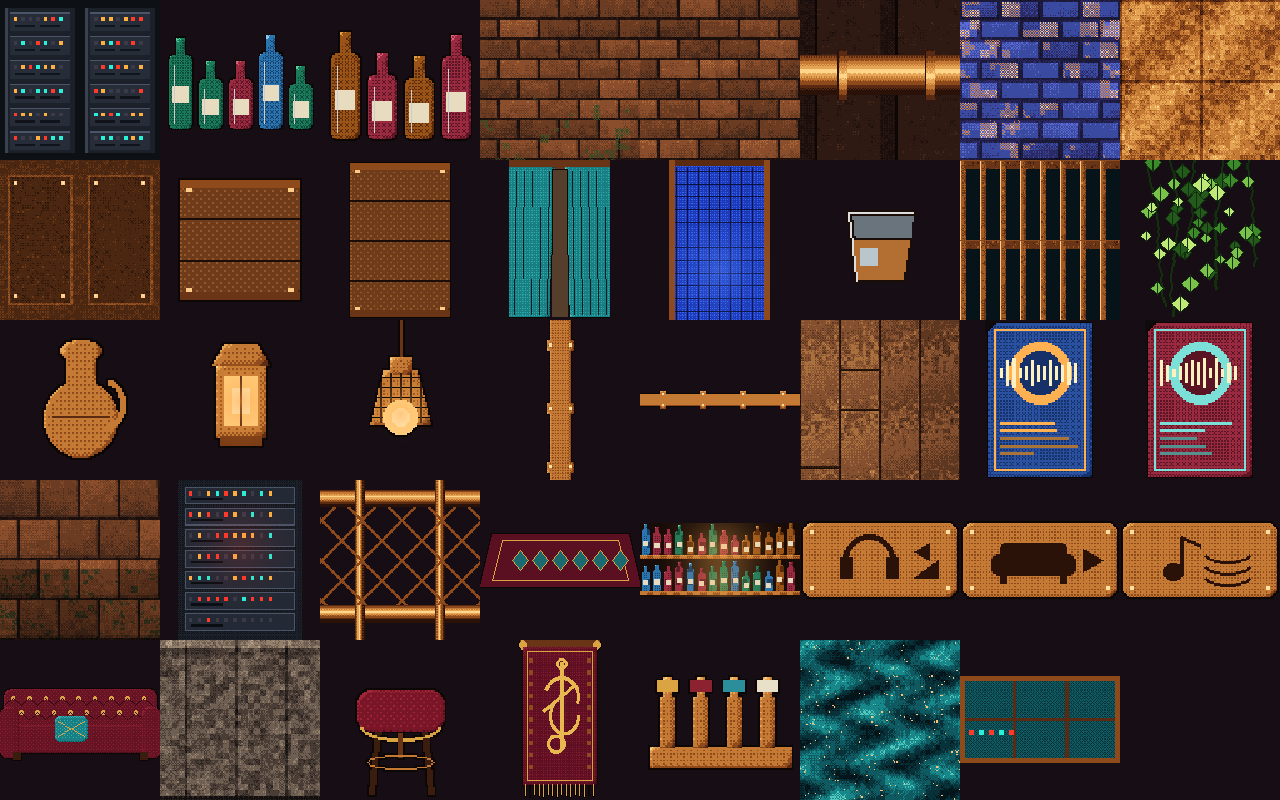
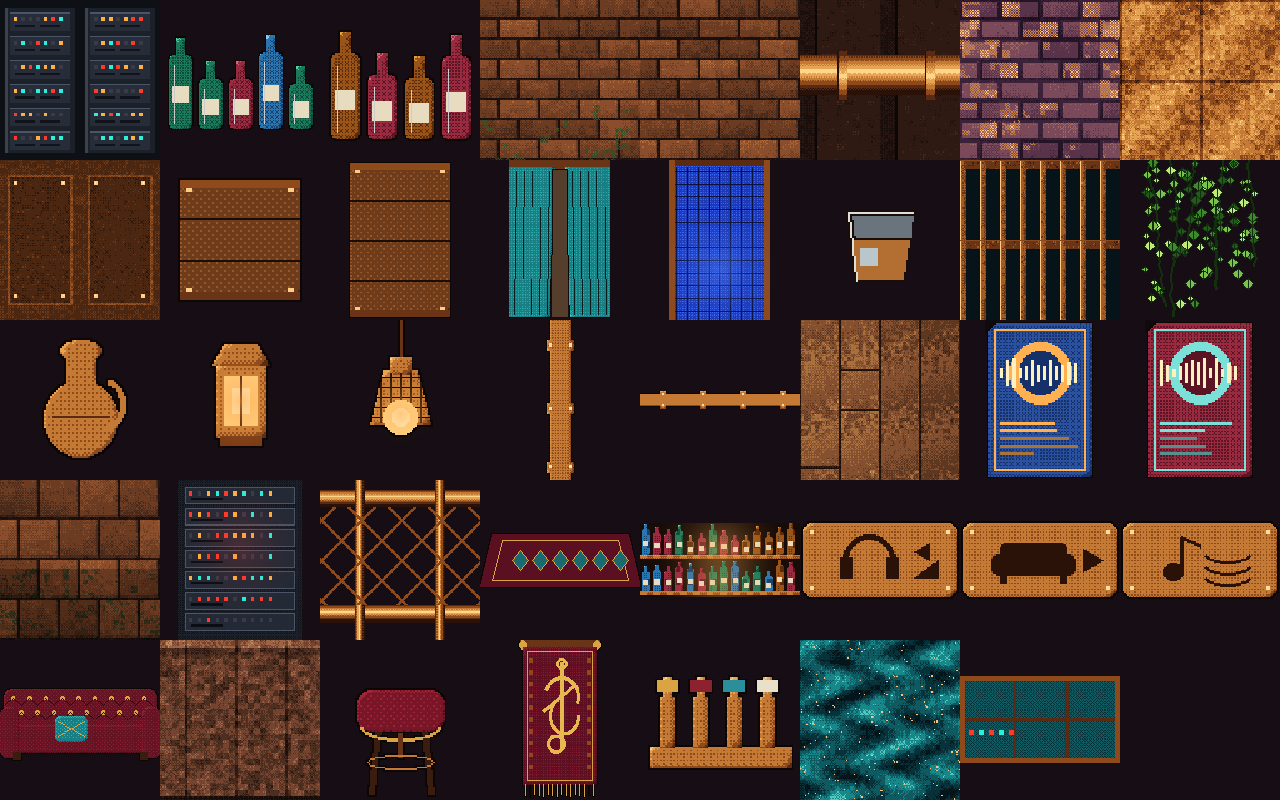
WIP: Copper Bar shots (one contact sheet, walk strips), scene doc, LAUNCH entry, art tweaks

Changed region(s): [[0.75, 0.0, 1.0, 0.4062], [0.125, 0.7812, 0.25, 1.0]]

diff --git a/tools/doom/shoot_bar.py b/tools/doom/shoot_bar.py
@@ -1,0 +1,114 @@
+#!/usr/bin/env python3
+"""Shots of the Copper Bar (docs/doom/scenes/bar.md), at 16:9 (1280x720) and 20:9 (1600x720), as ONE contact sheet under 1 MB (no per-frame JPEGs are kept).
+
+    python3 tools/doom/shoot_bar.py [out_dir]          default docs/shots/doom/bar   -> contact_bar.jpg (and walk_stay.jpg, walk_ahead.jpg with --walk)
+
+Every frame is a real run scene shot (HUD and pads on, RW_STORY_CAM stands the camera): the reference viewpoint beside the painting, the stay loop's three reveal holds and the
+rail camera at song times, and each of the three route walks (up to the booth, left to the Floor, right to the Chill-out) in four frames from tools/doom/walk_poses.gd's poses.
+The frames go to a temporary folder; only the sheet is written to out_dir.
+"""
+import os
+import re
+import shutil
+import subprocess
+import sys
+import tempfile
+
+from PIL import Image, ImageDraw
+
+HERE = os.path.dirname(os.path.abspath(__file__))
+sys.path.insert(0, HERE)
+import shoot_scene as ss  # noqa: E402
+
+ROOT = ss.ROOT
+SCENE = "doom_bar"
+PAINTING = os.path.join(ROOT, "art", "reference", "doom_worlds", "Copper Basement Bar, Three Hidden Routes-3.png")
+RES = {"16x9": "1280x720", "20x9": "1600x720"}
+RATE = 0.5
+
+
+def shoot(tmp, name, asp, cam, secs):
+    """One shot; returns the PNG path or None."""
+    steps = "%d:shot:%s" % (int((secs + 2.0) / RATE) + 2, name)
+    env = {"XDG_DATA_HOME": tmp + "/data", "RW_DOOM_WORLDS": "1", "RW_RUN_VIRTUAL": "1", "RW_STORY_RATE": str(RATE), "RW_RUN_START": SCENE, "RW_RUN_BOT": "perfect"}
+    if cam != "-":
+        env["RW_STORY_CAM"] = cam
+    text = ss.godot(["--path", ROOT, "--resolution", RES[asp], "-s", "tools/shoot.gd", "--", "res://src/run/run_play.tscn", tmp, steps], env, timeout=300)
+    bad = [ln for ln in text.splitlines() if ("SCRIPT ERROR" in ln or "ERROR" in ln) and not any(k in ln for k in ("RID allocations", "leaked", "still in use", "ObjectDB", "WASAPI", "ERR_CANT_OPEN"))]
+    if bad:
+        print("  errors in", name, asp, bad[:3])
+    f = os.path.join(tmp, name + ".png")
+    return f if os.path.exists(f) else None
+
+
+def poses(route):
+    text = ss.godot(["--headless", "--audio-driver", "Dummy", "--path", ROOT, "-s", "tools/doom/walk_poses.gd", "--", SCENE, route, "res://content/run/doom/run.json", SCENE])
+    if "SCRIPT ERROR" in text:
+        print("SCRIPT ERROR in walk_poses.gd\n" + text)
+        sys.exit(1)
+    out = []
+    for ln in text.splitlines():
+        m = ss.POSE.match(ln) if ln.startswith("WALK") else None
+        if m:
+            out.append(m.groups())
+    return out
+
+
+def main(out):
+    os.makedirs(out, exist_ok=True)
+    tmp = tempfile.mkdtemp(prefix="rw_bar_")
+    tmp_u = tmp.replace("\\", "/")
+    cells = {}  # (row, col) -> (image, label)
+    try:
+        painting = Image.open(PAINTING).convert("RGB")
+        rows = []  # each row: list of (asp, name, cam, secs, label) or "painting"
+        rows.append([("painting",), ("16x9", "ref", "wb_ref", 3, "reference viewpoint 16:9"), ("20x9", "ref", "wb_ref", 3, "reference viewpoint 20:9")])
+        holds = [("bridge", "wb_bridge"), ("counter", "wb_counter"), ("way", "wb_way")]
+        for asp in ("16x9", "20x9"):
+            rows.append([(asp, "hold_" + n, c, 3, "stay hold %s %s" % (n, asp.replace("x", ":"))) for n, c in holds] + [(asp, "stumble", "wb_ref_back", 3, "stumble %s" % asp.replace("x", ":"))])
+        rows.append([("16x9", "rail_%d" % k, "-", t, "rail camera t=%ds 16:9" % t) for k, t in enumerate((14, 28, 42, 56))])
+        for route, label in (("ahead", "up to the booth"), ("left", "left to the Floor"), ("right", "right to the Chill-out")):
+            ps = poses(route)
+            pick = [ps[i] for i in (2, 5, 8, 11)] if len(ps) >= 12 else ps
+            for asp in ("16x9", "20x9"):
+                rows.append([(asp, "walk_%s_%d" % (route, k), "@" + p[2], 3, "%s %d/4 %s" % (label, k + 1, asp.replace("x", ":"))) for k, p in enumerate(pick)])
+        for r, row in enumerate(rows):
+            for c, cell in enumerate(row):
+                if cell[0] == "painting":
+                    cells[(r, c)] = (painting, "the painting")
+                    continue
+                asp, name, cam, secs, label = cell
+                f = shoot(tmp_u, name + "_" + asp, asp, cam, secs)
+                if f:
+                    cells[(r, c)] = (Image.open(f).convert("RGB"), label)
+                    print("shot", name, asp)
+        w, h = 400, 225
+        ncols = max(c for _r, c in cells) + 1
+        nrows = max(r for r, _c in cells) + 1
+        sheet = Image.new("RGB", (ncols * w, nrows * (h + 16)), (12, 12, 20))
+        d = ImageDraw.Draw(sheet)
+        for (r, c), (im, label) in cells.items():
+            ch = int(w * 9 / 16) if label != "the painting" and "20:9" not in label else h
+            tgt = (w, h)
+            x, y = c * w, r * (h + 16)
+            sheet.paste(im.resize(tgt, Image.LANCZOS), (x, y + 16))
+            d.text((x + 3, y + 2), label, fill=(230, 230, 240))
+        path = os.path.join(out, "contact_bar.jpg")
+        q = 80
+        while True:
+            sheet.save(path, quality=q, optimize=True)
+            if os.path.getsize(path) < 900 * 1024 or q <= 40:
+                break
+            q -= 5
+        print("sheet", path, os.path.getsize(path) // 1024, "KB", sheet.size)
+    finally:
+        shutil.rmtree(tmp, ignore_errors=True)
+    if "--walk" in sys.argv:
+        os.environ["RW_SCENE"] = SCENE
+        ss.SCENE = SCENE
+        ss.walk(out, ["stay", "ahead"])
+
+
+if __name__ == "__main__":
+    args = [a for a in sys.argv[1:] if not a.startswith("--")]
+    main(args[0] if args else os.path.join(ROOT, "docs", "shots", "doom", "bar"))

diff --git a/tools/doom/author_bar.py b/tools/doom/author_bar.py
@@ -27,7 +27,7 @@ MAX_STEP = 0.5
 RAIL_TEX = "bar_railing"
 RAIL_HEIGHT = 1.0
 STATES = {"idle": 1, "available": 5, "selected": 2, "committed": 2}
-LIGHT_GAIN, LIGHT_FLOOR, TINT_LIFT, LAMP_GAIN = 2.0, 0.82, 0.7, 2.5  # exposure (the Warehouse's figures; A1's night interior median is 0.25 to 0.38 under the renderer's own fog)
+LIGHT_GAIN, LIGHT_FLOOR, TINT_LIFT, LAMP_GAIN = 2.0, 0.66, 0.7, 2.5  # exposure (the Warehouse's figures; A1's night interior median is 0.25 to 0.38 under the renderer's own fog)
 
 
 def mz(x, y):
@@ -97,7 +97,7 @@ DECALS = [
     ("bar_d_tapestry_w", "bar_tapestry", (-1.75, 5.05), 0.75, 2.1, False), ("bar_d_lantern_w", "bar_lantern", (-1.75, 4.0), 1.55, 0.7, True),
     ("bar_d_pipe_w1", "bar_pipe_h", (-1.75, -1.0), 2.7, 0.34, False), ("bar_d_pipe_w2", "bar_pipe_h", (-1.75, 4.9), 2.85, 0.3, False),
     ("bar_d_poster_a", "bar_poster_a", (-1.75, -2.1), 1.0, 0.95, False), ("bar_d_poster_b", "bar_poster_b", (-1.75, -0.4), 1.05, 0.95, False),
-    ("bar_d_ivy", "bar_ivy", (-1.75, 0.5), 0.5, 2.6, False), ("bar_d_poster_e", "bar_poster_b", (1.35, -1.6), 1.0, 0.95, False),
+    ("bar_d_ivy", "bar_ivy", (-1.75, 0.5), 1.0, 2.2, False), ("bar_d_poster_e", "bar_poster_b", (1.35, -1.6), 1.0, 0.95, False),
     ("bar_d_sign_floor", "bar_sign_floor", (-1.75, 3.95), 2.45, 0.42, True),
     ("bar_d_lantern_s", "bar_lantern", (-1.15, 7.0), 2.0, 0.7, True),
     ("bar_d_window", "bar_window", (0.1, 12.55), 0.85, 1.0, True), ("bar_d_sign_booth", "bar_sign_booth", (0.1, 12.55), 2.55, 0.5, True),
@@ -127,7 +127,7 @@ LIGHTS = [  # id, point (m), y, radius, colour, strength: warm practical lamps (
     ("bar_lt_way", (-5.0, 2.2), 2.6, 7.0, "#4a6aff", 1.7), ("bar_lt_booth", (0.1, 9.4), 3.2, 6.0, "#40d0d8", 1.3), ("bar_lt_booth_red", (0.1, 12.0), 2.6, 4.0, "#ff4a3a", 0.9),
 ]
 CAST = {"actors": ["c01", "c02", "c03", "c04", "c05", "c06", "c07"], "silhouettes": ["s01", "s02", "s03"]}
-HOMES = {"c01": (3.4, 3.05), "c02": (4.4, 3.05), "c03": (5.4, 3.05), "c04": (6.3, 3.05), "c05": (6.2, 4.4), "c06": (6.2, 7.6), "c07": (3.4, 7.8)}
+HOMES = {"c01": (3.8, 0.8), "c02": (4.8, 0.8), "c03": (5.8, 3.05), "c04": (6.4, 3.05), "c05": (6.4, 4.2), "c06": (6.2, 7.6), "c07": (3.4, 7.8)}  # (none stands in the picture at the reference viewpoint but the two far ones in the nook: the counter and the stools are the foreground)
 SILS = {"s01": (6.5, 6.0), "s02": (2.4, 1.0), "s03": (5.0, 0.8)}
 
 

diff --git a/tools/doom/art/make_bar_art.py b/tools/doom/art/make_bar_art.py
@@ -113,8 +113,8 @@ def tile_cobble():
                     v[(y0 + yy) % h, (x0 + xx) % w] = s
     wet = noise(h, w, 4, 16)
     v = v * 0.85 + wet * 0.2
-    pal = ["#0f0c1e", "#1b1a3a", "#2c2a66", "#3a4aa0", "#5a6ad0", "#c07a46", "#ffb066"]
-    img = ramp(v, pal[:5], 0.8)
+    pal = ["#120a14", "#241426", "#3c2238", "#58334a", "#7a4a5a", "#a06a60"]
+    img = ramp(v, pal, 0.8)
     glint = (wet > 0.66) & (v > 0.5)
     yy, xx = np.mgrid[0:h, 0:w]
     img[glint & (BAYER[yy % 4, xx % 4] < 0.5)] = hexc("#c9824a")
@@ -149,7 +149,7 @@ def tile_step():
     v[-3:, :] = 0.05
     for k in range(3):
         v[:, k * 40 + 20: k * 40 + 22] -= 0.25
-    return ramp(v, ["#14100f", "#2c2420", "#4a3d36", "#6f5e52", "#93806c", "#b8a287"])
+    return ramp(v, ["#160c08", "#2e1a12", "#4e2e1e", "#744430", "#9c6444", "#c08a60"])
 
 
 def tile_counter_front():
@@ -594,9 +594,9 @@ def decal_ivy(name="bar_ivy", seed=9):
         for y in range(0, int(rng.integers(80, 140)), 3):
             x += int(rng.integers(-1, 2))
             s.d.rectangle([x, y, x + 1, y + 2], fill=greens[0] + (255,))
-    for _ in range(46):
+    for _ in range(110):
         x, y = int(rng.integers(6, 106)), int(rng.integers(2, 130 if rng.random() > 0.4 else 80))
-        r = int(rng.integers(5, 9))
+        r = int(rng.integers(3, 6))
         c = greens[int(rng.integers(1, 5))]
         s.d.polygon([(x, y - r), (x + r, y), (x, y + r), (x - r, y)], fill=c + (255,), outline=greens[0] + (255,))
         s.d.line([(x, y - r), (x, y + r)], fill=greens[0] + (255,))

diff --git a/tools/doom/shoot_scene.py b/tools/doom/shoot_scene.py
@@ -19,7 +19,7 @@ from PIL import Image, ImageDraw
 
 ROOT = os.path.normpath(os.path.join(os.path.dirname(os.path.abspath(__file__)), "..", ".."))
 GODOT = os.environ.get("GODOT", os.path.join(ROOT, "tools", "dev", "godot.sh"))
-SCENE = "doom_warehouse"
+SCENE = os.environ.get("RW_SCENE", "doom_warehouse")  # the scene node (and map) the walk strips are shot for
 POSE = re.compile(r"WALK \S+ (\d+) t=(\S+) @(\S+) sector=(\S+) ground=(\S+) above=(\S+)")
 
 
@@ -64,7 +64,7 @@ def godot(args, env_extra=None, timeout=300):
 def walk(out, routes):
     os.makedirs(out, exist_ok=True)
     for route in routes:
-        text = godot(["--headless", "--audio-driver", "Dummy", "--path", ROOT, "-s", "tools/doom/walk_poses.gd", "--", SCENE, route])
+        text = godot(["--headless", "--audio-driver", "Dummy", "--path", ROOT, "-s", "tools/doom/walk_poses.gd", "--", SCENE, route, "res://content/run/doom/run.json", SCENE])
         if "SCRIPT ERROR" in text:
             print("SCRIPT ERROR in walk_poses.gd:\n" + text)
             sys.exit(1)

diff --git a/docs/doom/scenes/bar.md b/docs/doom/scenes/bar.md
@@ -1,0 +1,57 @@
+# Copper Bar (doom_bar): composition and mapping to the trace
+
+Reference: `art/reference/doom_worlds/Copper Basement Bar, Three Hidden Routes-3.png`. Map: `content/story/maps/doom_bar.json` (MAP02 Underhalls, APPROXIMATE). Pipeline as the Warehouse's
+(`docs/doom/scenes/warehouse.md`): `tools/doom/trace/bar_scene.py` (trace) -> `convert.py --scene bar --trace tools/doom/trace/bar_pilot.json` -> `tools/doom/author_bar.py` (waypoints, textures, decals, things, lights, cast).
+Art: `tools/doom/art/make_bar_art.py` (tiles, decals, props) and `make_bar_guides.py` (guides), into `assets/story/doom_bar/textures/`. Rebuild line: `docs/doom/LAUNCH.md`.
+
+## What the reference shows
+
+* The viewer stands at the south end of a **brick passage**, wet purple-blue cobbles, copper pipes along the ceiling, a pillar of pipe with crates at its foot, a **treble-clef tapestry** and a lantern on the left wall.
+* Ahead, **four stairs up** to a raised **DJ booth** behind a desk, windowed, racks glowing: the Booth guide (teal hair, headphones, orange jacket) beckons: route ahead.
+* Left, at a doorway in a blue-lit space under ivy: the **Floor guide** (braids, hoops, magenta sequin top, silver trousers): route left, back to the Floor.
+* Right, beyond a **drain channel** crossed by iron grates: the **bar nook**, a step up, a red tufted sofa, tapestries and the Chill-out guide (mustard cardigan, glasses) beckoning; in the foreground a curved copper counter, bottles, taps, a red stool, pendant cage lamps: route right.
+
+## The trace, and why it is not cut from the render
+
+MAP02's render (`tools/doom/trace/bar.json`: a nukage channel loop, a plateau, plazas, 2400 units) is a hall complex and holds nothing like a 10 m passage. `bar_scene.py` therefore keeps MAP02's ideas (the drain channel with crossings,
+brown brick rooms, short stairs) and lays them out as the painting shows them, as 20 non-overlapping rectangles (metres, edges split at every neighbour's corner). NOTHING is read from the render or the WAD; it is flagged in `uncertain`.
+
+| Reference element | Sectors | Floor (m) |
+| --- | --- | --- |
+| Passage, cobbles | `pass` (3.2 x 9.2 m) | 0 |
+| Way to the Floor (left) | `way_w` (5.2 x 2.7, ends at the blue door) | 0 |
+| Four stairs | `stair_1..4` (0.4 m deep, 0.3 m risers) | 0.3 .. 1.2 |
+| Booth landing, desk, booth | `booth`, `desk` (+1 m, blocked: a solid desk), `booth_back` | 1.5, 2.5, 1.5 |
+| Drain channel, two grated crossings | `chan_a/b/c` (-1 m), `bridge_1/2` (0, grate floor) | -1 / 0 |
+| Bar, counter, stools | `bar_w`, `bar_back`, `bar_e`, `bar_front`, `counter` (an island, +1 m, blocked) | 0.3 / 1.3 |
+| Chill-out nook (right) | `lounge_n` (0.4 m up, sofa, tapestries, curtain) | 0.4 |
+
+**Heights.** `max_step` 0.5 (the largest open step is 0.4). Every drop over 0.5 m is shut to walkers (`blocked`) while the map stays reachable (the channel, the counter and the booth behind the desk each keep one open portal, the farthest, a dead end no
+route uses). The channel's long banks (passage, stairs, landing, nook) carry the renderer's `railing` wall kind (copper lattice, `bar_railing`, 1 m); the sides of the two grates are open drops without a rail (the painting has none). `visibility` is `clip`.
+**Exposure**: sector light at least 0.66 (the Warehouse uses 0.9: the bar is meant darker), tints lifted 0.7, violet-brown fog (`#2a1838`, 0.032), 13 practical lights (warm pendants and lanterns, teal over the water, blue in the Floor way, red and teal in the booth).
+**Decals** (24, kind `decal`): tapestries, posters, copper pipes, ivy, three signs (pictograms: headphones, note, sofa), the back-bar shelf, the booth window and racks, the blue Floor door, the curtain. Billboards: pendants, taps, bottles, stools, crates, jug, pipe columns, sofa.
+
+## Camera, routes, guides
+
+* **Reference viewpoint** `wb_ref` (0.1, -0.5), yaw 0 (north): the stairs ahead, the Floor guide 37 degrees left (3.9 m, 241 px at 16:9), the Chill-out guide 34 degrees right (7.4 m, 140 px), the Booth guide dead ahead (11.7 m, 71 px; the test needs 60).
+* **Arrival** `wb_arrive`: the west end of the way from the Floor (you came in that way), a 3 bar walk to `wb_ref`.
+* **Stay loop** (`good`, polyline moves with holds): the first grate crossing `wb_bridge` (hold 2), the counter `wb_counter` (2), the way to the Floor `wb_way` (2), back to `wb_ref` (choice viewpoint, `"choice": true`, 8 bars).
+* **Routes** (`rail.routes`): `up` through the stair foot to `wb_booth_door` (on the landing, 2.1 m from the desk guide), `left` through `wb_v_jamb` to `wb_floor_door`, `right` across the first grate to `wb_chill_door` (1.6 m from the Chill-out guide), `stumble`, `arrive`. `check_rail_paths`: 0 problems.
+* **Guides**: `wb_guide_booth/floor/chill`, 1.8 m, 256 px sheets (idle 1, available 5, selected 2, committed 2). Hotspot rows `doom_bar.exit_*` declare `show: {archetype: figure, light: wb_lamp_<who>}` (A7): the figure beckons when available, leans in when touched, gestures when committed, and the lamp over it brightens; no ring.
+* **Worlds**: the Bar is the world `doom_bar` (depth 2), entered from the Warehouse's exit scene; the guides lead to in-world stand-ins (`doom_bar.booth/floor/chill`) that loop back through `doom_bar.return`. The real cut to the Booth, the Floor and the Chill-out waits for hook H1.6 (see LAUNCH.md).
+
+## Shots (`docs/shots/doom/bar/`)
+
+`contact_bar.jpg` (one sheet, 790 KB: the painting, the reference viewpoint, the three stay holds, the stumble, the rail camera at four song times, and the three route walks in four frames each, all at 16:9 and 20:9),
+`walk_stay.jpg` / `walk_ahead.jpg` (12-frame strips with pose tables `walk_*.txt`; holds move 0.003 m), `guides_sheet.png`, `art_sheet.png`. Read by eye:
+
+What matches the painting: the long brick passage under timber and copper-pipe ceiling with the stairs rising to a lit, windowed booth with racks and a teal-haired guide behind a desk; the copper pillar with crates and a jug at the left; the treble-clef tapestry and lantern on the left wall; the ivy at the top left;
+the blue-lit Floor way with its guide; the red sofa, teal curtain, tapestry and stools of the nook at the right; the copper-lattice rail along the channel; the back-bar shelves of bottles and the taps along the counter; warm lamp light against a violet ambience; the three guides in the picture, apart, at human scale.
+
+What does not: the cobbles are purple but not wet-blue with warm reflections; the brick is one even orange where the painting is dark, mossy and stained; the **channel water is hardly visible** from the reference viewpoint (the bank and rail hide it, and it is dark: the painting shows it glittering between the grates);
+the counter is not in the foreground as in the painting (it lies at 56 degrees, just outside the 16:9 picture; the first view of it is the `wb_counter` hold); the passage is straight and 3 m wide, the painting's is wider with the Floor opening nearer; the pipes along the ceiling are a texture, not the thick riveted mains;
+the guides' faces are weak and their poses stiff (placeholders, well below `art/reference/standard/guide_floor_sprite_standard.png`); the Floor guide is passed within 1 m on the `left` walk and the Chill-out guide ends 1.6 m away (large in frame); at `wb_bridge` the view up the channel is mostly brick wall; the patrons are the Night One figures, not bar people; the red stool is the only foreground prop.
+
+## Placeholders and not done
+
+Placeholders: every texture, decal and prop (procedural), the three guides, the cast, the music (the Warehouse's arrangement `warehouse_1`). Not done: curved counter, wet reflections, ceiling mains as geometry, water movement, the Floor/Booth/Chill-out transitions (H1.6), per-scene music, the guides' loop playback beyond the frames (engine).

diff --git a/docs/doom/LAUNCH.md b/docs/doom/LAUNCH.md
@@ -6,6 +6,9 @@ The Doom scenes are behind a flag and an overlay: nothing in `content/run/run.js
 | --- | --- |
 | Play the pilot | PowerShell: `& "C:\Users\joesa\Documents\Cursor\MusicGame-envwh\tools\dev\play_doom_worlds.cmd" --scene doom_warehouse` (needs the track packs: `RW_TRACKS_DIR` or `<RW_AUDIO_WORK>\packs`, as `play_tracks.cmd`) |
 | By hand | `RW_DOOM_WORLDS=1 RW_RUN_START=doom_warehouse` then run `src/run/run_play.tscn` (`bash tools/dev/play_tracks.sh --run` passes the variables through) |
+| Play the Copper Bar | `tools\dev\play_doom_worlds.cmd --scene doom_bar` (from the `MusicGame-env-bar` checkout, branch `wip/env-bar`) |
+| Rebuild the Copper Bar | `python -I tools/doom/trace/bar_scene.py && python -I tools/doom/convert.py --scene bar --trace tools/doom/trace/bar_pilot.json && python -I tools/doom/art/make_bar_art.py && python -I tools/doom/art/make_bar_guides.py && python -I tools/doom/author_bar.py`, then `python tools/run/make_doom.py` and `godot --headless --import` |
+| Bar shots | `python3 tools/doom/shoot_bar.py [--walk]` (one contact sheet, plus the walk strips with `--walk`, in `docs/shots/doom/bar/`) |
 | Legacy campaign | no variable set: the game is as before |
 | Regenerate the data | `python tools/run/make_scenes.py --doom` (or `RW_DOOM_WORLDS=1`), or `python tools/run/make_doom.py` for the overlay alone |
 | Rebuild the geometry | `python -I tools/doom/trace/warehouse_scene.py && python -I tools/doom/convert.py --scene warehouse --trace tools/doom/trace/warehouse_pilot.json && python -I tools/doom/author_warehouse.py` |
@@ -20,6 +23,13 @@ five scenes, their music entries (the Warehouse arrangements), the hotspots in `
 
 Scenes (placeholders, see `tools/run/make_doom.py`): `doom_warehouse` (entry; routes: stay on the floor (default), `doom_balcony` ahead, `doom_bar` left, `doom_lounge` right). The three destinations
 are ALIASES of the same scene and map until the real ones exist; each leads on to `doom_warehouse.return`, the world's exit scene, whose two routes loop back to the floor.
+
+## The Copper Bar (`doom_bar`, docs/doom/scenes/bar.md)
+
+A second world in the overlay: `doom_bar` (map `doom_bar`, depth 2), entry scene `doom_bar` (the Copper Bar: guides for the Booth ahead, the Floor left, the Chill-out right, and a stay hotspot), three in-world
+stand-ins `doom_bar.booth`, `doom_bar.floor`, `doom_bar.chill` and the exit scene `doom_bar.return` (loops back); its data is in `tools/run/make_doom_bar.py`. It is reached from the Warehouse through the Warehouse's
+exit scene (`doom_warehouse.return`, route left): a run node takes its map from its world and only an exit scene may leave a world, so the Warehouse's own "bar" stand-in is now `doom_warehouse.bar` (it leads to
+the return scene). `RW_RUN_START=doom_bar` plays the Bar directly. The guides' real thresholds (a walk to the threshold, then the other world's arrival) wait for engine hook H1.6.
 
 ## Known limits (7 November)
 
